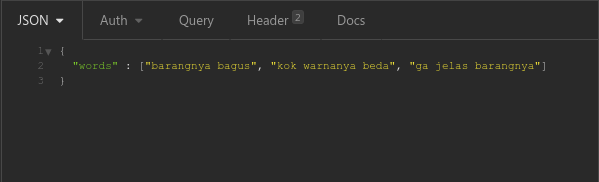
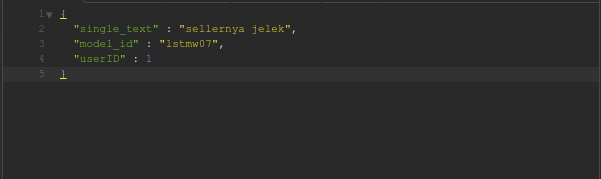
update

diff --git a/client/src/pages/Home.jsx b/client/src/pages/Home.jsx
@@ -68,17 +68,24 @@ export default function Home() {
   // }
 
   useEffect(() => {
-    Axios({
-      url: `user/${localStorage.id}`,
-      method: 'get',
-      headers: {
-        "Authorization": localStorage.token
-      }
-    })
-      .then(function (response) {
-        setpaket(response.data)
-        getModel()
+    const interval = setInterval(() => {
+
+      Axios({
+        url: `user/${localStorage.id}`,
+        method: 'get',
+        headers: {
+          "Authorization": localStorage.token
+        }
       })
+        .then(function (response) {
+          setpaket(response.data)
+          getModel()
+        })
+  
+      console.log('Every 3 seconds');
+      }, 3000);
+  
+     return () => clearInterval(interval);
   },[])
 
   if (loading) {
@@ -96,18 +103,18 @@ export default function Home() {
           <div className="card" style={{ height: "250px" }}>
             <header className="card-header">
               <p className="card-header-title">
-                Api Usage
+               Usage
               </p>
             </header>
             <div className="card-content">
               <div className="content">
-                <div style={{ marginTop: "5px" }}></div>
+                <div style={{ marginTop: "-20px" }}></div>
+                <p className="is-size-6 has-text-weight-bold">API Usage</p>
                 <ProgressBar completed={Math.round(paket.usage / paket.limit * 100)} labelColor="black" bgColor="#23a96f" />
-                <br></br>
                 <p>{JSON.stringify(paket.usage)} / {JSON.stringify(paket.limit)} Used</p>
 
+                <p className="is-size-6 has-text-weight-bold">TF Learning Usage</p>
                 <ProgressBar completed={Math.round(paket.TF_usage / paket.TF_limit * 100)} labelColor="black" bgColor="#23a96f" />
-                <br></br>
                 <p>{JSON.stringify(paket.TF_usage)} / {JSON.stringify(paket.TF_limit)} Used</p>
               </div>
             </div>
@@ -188,17 +195,26 @@ export default function Home() {
                       switch (x.status) {
                         case "0": return <span className="tag is-warning is-medium">Progress</span>
                         case "1": return <span className="tag is-success is-medium">Success</span>
-                        default: return <h5>Error</h5>;
+                        default: return <span className="tag is-danger is-medium">Error</span>
                       }
                     })()}
                     </th>
                     <td>
                     <Link to={`/test/${x.id}`}><button className="button Mainkolor" style={{ color: "white" }}>Test</button></Link>
                     <Link to={`/train/${x.id}`}><button className="button Mainkolor" style={{ marginLeft: "5px", color: "white" }}>Train</button></Link>
-                      <button className="button is-danger" style={{ marginLeft: "5px" }} onClick={(e) => {
-                        e.preventDefault()
-                        deleteModel(x.id)
-                      }}>Delete</button></td>
+                    {(() => {
+                      switch (x.model_ID) {
+                        case "lstmw07": return <button title="this is your default model!" disabled className="button is-danger" style={{ marginLeft: "5px" }} onClick={(e) => {
+                          e.preventDefault()
+                          deleteModel(x.id)
+                        }}>Delete</button>
+                        default: return <button className="button is-danger" style={{ marginLeft: "5px" }} onClick={(e) => {
+                          e.preventDefault()
+                          deleteModel(x.id)
+                        }}>Delete</button>
+                      }
+                    })()}
+                      </td>
                   </tr>
                 ))}
               </tbody>

diff --git a/client/src/pages/Testid.jsx b/client/src/pages/Testid.jsx
@@ -51,7 +51,7 @@ export default function Testid() {
                 axios({
                     url: 'http://162.55.37.249:8000/singletext',
                     method: 'post',
-                    data: { single_text : word, model_id : model.model_ID, userID : model.model_owner }
+                    data: { single_text: word, model_id: model.model_ID, userID: model.model_owner }
                 })
                     .then(function (response) {
                         // handle success
@@ -68,7 +68,7 @@ export default function Testid() {
                         // handle success
                         Swal.fire({
                             title: 'Error!',
-                            text: 'Upload File Failed!',
+                            text: response,
                             icon: 'error',
                             confirmButtonText: 'Okay'
                         })
@@ -80,12 +80,12 @@ export default function Testid() {
             })
     }
 
-    function addFile() {
+    function addFile(id) {
         setloading(true)
         const input = new FormData();
         input.append('file', file)
         Axios({
-            url: 'user/file',
+            url: 'user/file/' + id,
             method: 'put',
             headers: {
                 "Content-Type": "multipart/form-data",
@@ -95,9 +95,34 @@ export default function Testid() {
         })
             .then(function (response) {
                 // handle success
-                setanswer(response.data.data)
-                setloading(false)
-                openModal()
+                console.log(response.data, "<<<<<<<RESPONSEEEEEE")
+                axios({
+                    url: 'http://162.55.37.249:8000/multiple_text',
+                    method: 'post',
+                    data: response.data
+                })
+                    .then(function (response) {
+                        // handle success
+                        console.log(response, "<<<<<<<<<< RESPONSE")
+                        setanswer(response.data.data)
+                        setloading(false)
+                        openModal()
+                        // Swal.fire({
+                        //     title: 'Success!',
+                        //     text: response.data.data,
+                        //     icon: 'success',
+                        //     confirmButtonText: 'Cool'
+                        // })
+                    })
+                    .catch(function (response) {
+                        // handle success
+                        Swal.fire({
+                            title: 'Error!',
+                            text: response,
+                            icon: 'error',
+                            confirmButtonText: 'Okay'
+                        })
+                    })
             })
     }
 
@@ -111,9 +136,9 @@ export default function Testid() {
     }
 
 
+    // references are now sync'd and can be accessed.
+    // subtitle.style.color = '#000000';
     function afterOpenModal() {
-        // references are now sync'd and can be accessed.
-        // subtitle.style.color = '#000000';
     }
 
     function closeModal() {
@@ -182,7 +207,7 @@ export default function Testid() {
                                 encType="multipart/form-data"
                                 onSubmit={(e) => {
                                     e.preventDefault()
-                                    addFile()
+                                    addFile(model.id)
                                 }}>
 
                                 <div className="file is-small" style={{ marginTop: "10px", marginLeft: "125px" }}>

diff --git a/client/src/pages/Test.jsx b/client/src/pages/Test.jsx
@@ -1,6 +1,7 @@
 import React, { useState, useEffect } from 'react'
 import { FaUpload } from "react-icons/fa";
 import Axios from '../config/axios'
+import axios from 'axios'
 import Swal from 'sweetalert2'
 import ReactLoading from 'react-loading'
 import Modal from 'react-modal'
@@ -32,15 +33,12 @@ export default function Test() {
     const [modalIsOpen, setIsOpen] = useState(false)
     const [model, setmodel] = useState(null)
 
-    function add() {
+    function add(id) {
         setloading(true)
-        Axios({
-            url: 'user/model',
+        axios({
+            url: 'http://162.55.37.249:8000/singletext',
             method: 'post',
-            headers: {
-                "Authorization": localStorage.token
-            },
-            data: { word }
+            data: { single_text : word, model_id : model.model_ID, userID : model.model_owner }
         })
             .then(function (response) {
                 // handle success
@@ -156,7 +154,7 @@ export default function Test() {
                             <select style={{ width: "325px" }}>
                                 <option>Base Model</option>
                                 {model.map((x) => {
-                                    return <option value={x.id} key={x.id}>{x.title}</option>
+                                    return <option value={x.id} key={x.id}>{x.model_ID}</option>
                                 })}
                             </select>
                         </div>

diff --git a/client/src/components/Navbar.jsx b/client/src/components/Navbar.jsx
@@ -28,16 +28,16 @@ export default function Navbar() {
                         <div className="navbar-dropdown">
                             <Link to="/profile">
                                 <p className="navbar-item">
-                                    See Profile
+                                    Profile
                                 </p>
                             </Link>
-                            <p className="navbar-item">
+                            {/* <p className="navbar-item">
                                 Setting
-                            </p>
+                            </p> */}
                             <hr className="navbar-divider" />
                             <Link to="/faq">
                                 <p className="navbar-item">
-                                    Faq
+                                    Documentation
                                 </p>
                             </Link>
                             <div className="buttons" onClick={(e) => {

diff --git a/client/src/components/Sidebar.jsx b/client/src/components/Sidebar.jsx
@@ -85,13 +85,13 @@ const Sidebar = ({ sideNavExpanded, setSideNavExpanded }) => {
                   <MenuItem><Link to="/file">Upload File</Link></MenuItem>
                 </SubMenu> */}
 
-                <MenuItem icon={<AiFillCopy size={50}/>}>
+                {/* <MenuItem icon={<AiFillCopy size={50}/>}>
                   <Link to="/test">Test Model</Link>
                 </MenuItem>
 
                 <MenuItem icon={<MdTrendingUp size={50}/>}>
                   <Link to="/train">Train Model</Link>
-                </MenuItem>
+                </MenuItem> */}
 
               </Menu>
             </SidebarContent>

diff --git a/client/src/pages/Train.jsx b/client/src/pages/Train.jsx
@@ -153,7 +153,7 @@ export default function Train() {
                             <select style={{ width: "325px" }}>
                                 <option>Base Model</option>
                                 {model.map((x) => {
-                                    return <option value={x.id} key={x.id}>{x.title}</option>
+                                    return <option value={x.id} key={x.id}>{x.model_ID}</option>
                                 })}
                             </select>
                         </div>

diff --git a/client/src/pages/Faq.jsx b/client/src/pages/Faq.jsx
@@ -13,7 +13,7 @@ export default function Faq() {
                     <p>How to Use API</p>
                 </div>
                 <div className="message-body">
-                    URL : {`${baseURL}user/multiple`}<br></br>
+                    URL : {`${baseURL}singletext`}<br></br>
                     Header : {"Authorization : <token>"}<br></br>
                     input : JSON
                 </div>

diff --git a/client/src/config/axios.js b/client/src/config/axios.js
@@ -1,7 +1,7 @@
 import axios from 'axios'
 import Swal from 'sweetalert2'
 
-// export const baseURL = 'http://localhost:8000/'
+// export const baseURL = 'http://162.55.37.249:8000/'
 export const baseURL = 'http://localhost:8000/'
 
 const instance = axios.create({

diff --git a/serverpython/user/views.py b/serverpython/user/views.py
@@ -185,27 +185,30 @@ class FileUploadView(APIView):
     permission_classes = (IsAuthenticated,)
     parser_class = (FileUploadParser,)
 
-    def put(self, request, format=None):
+    def put(self, request, pk):
         try :
             if 'file' not in request.data:
                 raise ParseError("Empty content")
             
-            module_dir = os.path.dirname(__file__)  
-            tfdifloc = os.path.join(module_dir, 'tfidf.pickle')  
-            mnbloc = os.path.join(module_dir, 'mnb.pickle')
+            # module_dir = os.path.dirname(__file__)  
+            # tfdifloc = os.path.join(module_dir, 'tfidf.pickle')  
+            # mnbloc = os.path.join(module_dir, 'mnb.pickle')
             
             #Load tfidf matrix
-            tfidf = pickle.load(open(tfdifloc, "rb"))
+            # tfidf = pickle.load(open(tfdifloc, "rb"))
 
             #Load mnb model
-            mnb = pickle.load(open(mnbloc, "rb"))
+            # mnb = pickle.load(open(mnbloc, "rb"))
 
             #Check Api Usage
             u = User.objects.filter(id=request.user.id).values()
             usage = u[0]['API_usage']
             package = u[0]['package_id']
+            uname = u[0]['id']
             p = Package.objects.filter(id=package).values()
             limit = p[0]['API_quota']
+            m = Modelml.objects.filter(id=pk).values()
+            model_ID = m[0]['model_ID']
 
             if usage >= limit :
                 return Response({
@@ -216,28 +219,28 @@ class FileUploadView(APIView):
 
             df = pd.read_csv(f)
             words = df['sentiment']
-            output = []
-            print(words)
-            for x in words:
-                obj = {}
-                tfidf_baru = tfidf.transform([x])
-                hasil = mnb.predict(tfidf_baru)
+            # output = []
+            print(words, ">>>>>>>>>>>>WORDSS")
+            # for x in words:
+            #     obj = {}
+            #     tfidf_baru = tfidf.transform([x])
+            #     hasil = mnb.predict(tfidf_baru)
 
-                if hasil == 0:
-                    obj['word'] = x
-                    obj['sentiment'] = "negative"
-                    output.append(obj)
-                else :
-                    obj['word'] = x
-                    obj['sentiment'] = "positive"
-                    output.append(obj)
+            #     if hasil == 0:
+            #         obj['word'] = x
+            #         obj['sentiment'] = "negative"
+            #         output.append(obj)
+            #     else :
+            #         obj['word'] = x
+            #         obj['sentiment'] = "positive"
+            #         output.append(obj)
 
-            print(output, "<<<hasil nich")
+            # print(output, "<<<hasil nich")
             user = User.objects.filter(id=request.user.id).get()
             user.API_usage = usage + 1
             user.save()
             return Response({
-                "data" : output},
+                "username" : uname, "model_id" : model_ID,"review" : words},
             status=status.HTTP_201_CREATED)
 
         except Exception as error:

diff --git a/serverpython/user/urls.py b/serverpython/user/urls.py
@@ -8,7 +8,7 @@ urlpatterns = [
     path('transfer/<pk>', TransferView.as_view(), name="transfer"),
     path('register', RegisterView.as_view(), name="register"),
     path('model',ModelView.as_view() , name="model"),
-    path('file',FileUploadView.as_view() , name="file"),
+    path('file/<pk>',FileUploadView.as_view() , name="file"),
     path('multiple',MultipleView.as_view() , name="multiple"),
     path('login', Login.as_view() , name="login"),
     path('package', PackageView.as_view() , name="package"),

diff --git a/serverpython/modelml/serializers.py b/serverpython/modelml/serializers.py
@@ -4,4 +4,4 @@ from .models import Modelml
 class ModelSerializer(serializers.ModelSerializer):
     class Meta:
         model = Modelml
-        fields = ('id','model_ID', 'model_owner', 'status')
+        fields = ('id','model_ID','baseline_ID', 'model_owner', 'status')
